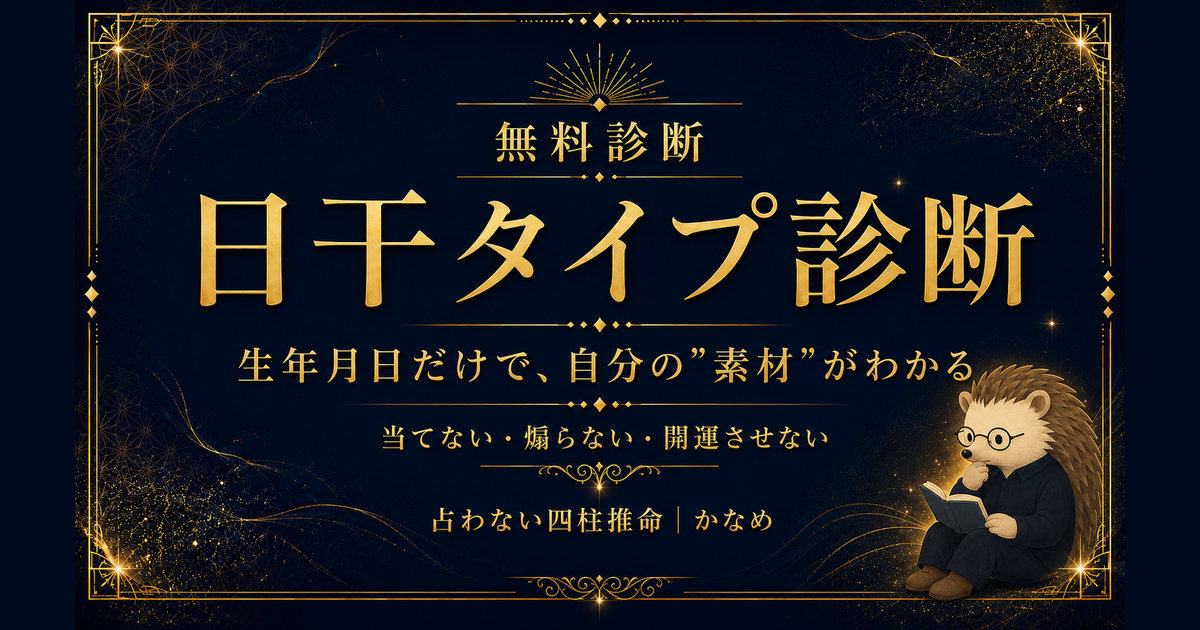
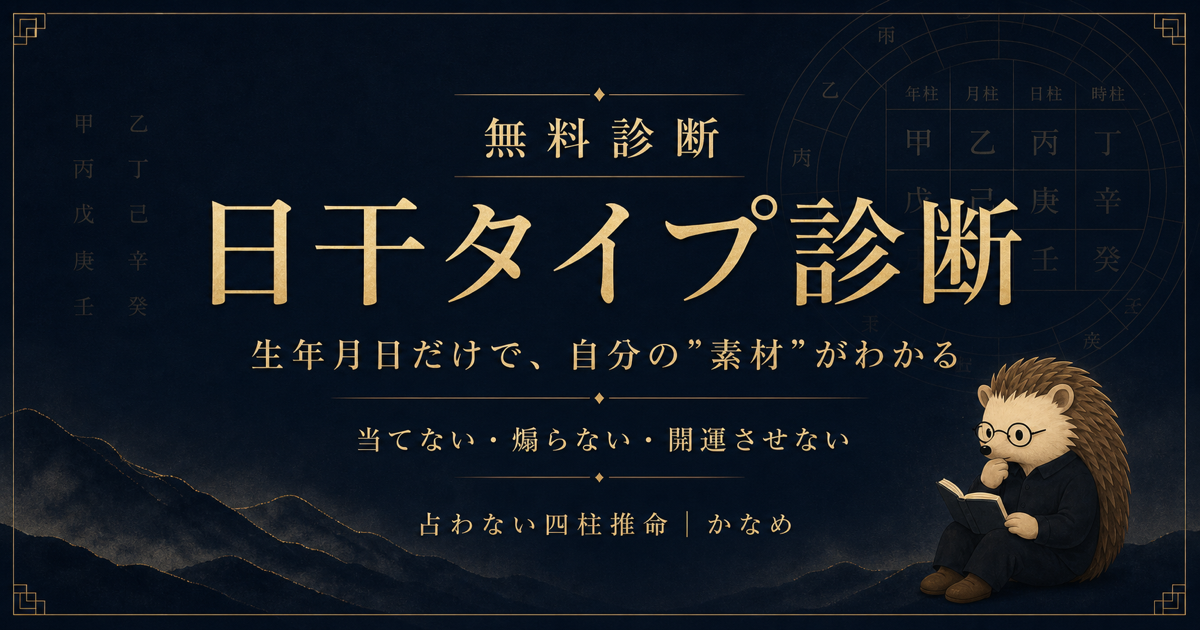
Add files via upload

diff --git a/index.html b/index.html
@@ -145,9 +145,136 @@
   .sign{text-align:center;margin-top:36px;font-family:var(--serif);color:var(--muted);font-size:13px;letter-spacing:.1em}
   .starnote{font-size:12px;color:var(--muted);display:inline-block;margin-top:5px;line-height:1.7}
   .hidden{display:none}
+
+  /* ===== 2026-07-17 visual refresh =====
+     すばるの「背景に世界観／本文は静かなパネル」という骨格だけを借り、
+     かなめは命式盤・金の罫線・墨の山並みで固有化する。色は従来の濃紺×金を維持。 */
+  body{padding:0 18px;position:relative;overflow-x:hidden;
+    background:
+      radial-gradient(44% 32% at 86% 11%,rgba(231,206,142,.16) 0%,rgba(203,167,90,.045) 48%,transparent 74%),
+      radial-gradient(72% 50% at 12% 78%,rgba(76,107,122,.22) 0%,transparent 72%),
+      linear-gradient(180deg,#07131C 0%,#0E1A24 34%,#132533 70%,#1A3140 100%) fixed}
+  body::before{opacity:.07;mix-blend-mode:screen}
+  .kaname-grid{position:fixed;inset:0;z-index:0;pointer-events:none;opacity:.23;
+    background-image:
+      linear-gradient(rgba(203,167,90,.12) 1px,transparent 1px),
+      linear-gradient(90deg,rgba(203,167,90,.12) 1px,transparent 1px);
+    background-size:72px 72px;
+    -webkit-mask-image:linear-gradient(180deg,rgba(0,0,0,.9),rgba(0,0,0,.12) 78%,transparent);
+    mask-image:linear-gradient(180deg,rgba(0,0,0,.9),rgba(0,0,0,.12) 78%,transparent)}
+  .kaname-grid::before,.kaname-grid::after{content:"";position:absolute;inset:0}
+  .kaname-grid::before{background:linear-gradient(112deg,transparent 0 47.8%,rgba(203,167,90,.13) 48%,transparent 48.2% 100%)}
+  .kaname-grid::after{background:linear-gradient(68deg,transparent 0 47.8%,rgba(203,167,90,.09) 48%,transparent 48.2% 100%)}
+  .kaname-disc{position:fixed;right:42px;top:38px;width:286px;height:286px;border-radius:50%;z-index:0;pointer-events:none;
+    border:1px solid rgba(231,206,142,.48);
+    background:
+      repeating-conic-gradient(from -9deg,rgba(231,206,142,.32) 0 .45deg,transparent .45deg 36deg),
+      radial-gradient(circle,transparent 0 31%,rgba(203,167,90,.18) 31.4% 31.8%,transparent 32.2% 56%,rgba(203,167,90,.22) 56.4% 56.8%,transparent 57.2%),
+      radial-gradient(circle at 42% 35%,rgba(244,236,216,.12),rgba(203,167,90,.035) 52%,transparent 72%);
+    box-shadow:0 0 70px 20px rgba(203,167,90,.09),inset 0 0 55px rgba(203,167,90,.05);
+    animation:discBreathe 9s ease-in-out infinite}
+  .kaname-disc::before{content:"命";position:absolute;inset:0;display:grid;place-items:center;
+    font-family:var(--serif);font-size:88px;font-weight:500;color:rgba(231,206,142,.19);
+    text-shadow:0 0 28px rgba(203,167,90,.13)}
+  .kaname-disc::after{content:"甲　乙　丙　丁　戊\A癸　　　　　　　己\A壬　辛　庚";white-space:pre;
+    position:absolute;inset:-18px;display:grid;place-items:center;text-align:center;
+    font-family:var(--serif);font-size:12px;line-height:9.4;letter-spacing:2.8em;color:rgba(231,206,142,.48)}
+  @keyframes discBreathe{0%,100%{opacity:.72;filter:brightness(.92)}50%{opacity:1;filter:brightness(1.08)}}
+  .kaname-mist{position:fixed;left:-8%;right:-8%;bottom:-3vh;height:42vh;z-index:0;pointer-events:none;opacity:.48;
+    background:
+      linear-gradient(153deg,transparent 0 42%,rgba(6,16,23,.8) 42.2% 52%,transparent 52.2%) 0 100%/34% 82% repeat-x,
+      linear-gradient(207deg,transparent 0 44%,rgba(12,29,40,.84) 44.2% 58%,transparent 58.2%) 8% 100%/42% 68% repeat-x,
+      radial-gradient(60% 48% at 20% 100%,rgba(184,169,127,.15),transparent 70%),
+      radial-gradient(54% 44% at 76% 106%,rgba(76,107,122,.36),transparent 72%);
+    filter:blur(5px)}
+  @media(max-width:760px){
+    .kaname-disc{width:168px;height:168px;right:-38px;top:28px}
+    .kaname-disc::before{font-size:52px}.kaname-disc::after{font-size:8px;line-height:8.5;letter-spacing:2em}
+    .kaname-grid{background-size:48px 48px;opacity:.19}
+  }
+
+  .wrap{max-width:680px;padding:104px 0 120px}
+  #intro{min-height:calc(100svh - 160px);display:flex;flex-direction:column;justify-content:center}
+  #intro.hidden{display:none}
+  .en{font-family:var(--serif);font-size:13px;letter-spacing:.42em;color:var(--accent2);margin-bottom:18px;
+    text-shadow:0 2px 12px rgba(0,0,0,.8)}
+  .kicker{font-size:13.5px;letter-spacing:.36em;color:var(--ink);margin-bottom:25px;text-shadow:0 2px 14px rgba(0,0,0,.7)}
+  .kicker::before,.kicker::after{width:52px;background:linear-gradient(90deg,transparent,var(--accent))}
+  .kicker::after{background:linear-gradient(90deg,var(--accent),transparent)}
+  h1.title{font-size:46px;letter-spacing:.16em;color:var(--ink);-webkit-text-fill-color:initial;background:none;
+    text-shadow:0 2px 18px rgba(0,0,0,.8),0 0 38px rgba(203,167,90,.28)}
+  h1.title::after{content:"◇";display:block;font-size:13px;color:var(--accent2);margin-top:24px;letter-spacing:0;
+    text-shadow:0 0 16px rgba(231,206,142,.65)}
+  .lead{color:#D8CDAF;line-height:2.15;text-shadow:0 2px 12px rgba(0,0,0,.8)}
+  .note-min{max-width:560px;margin-top:38px;padding:20px 22px;line-height:1.95;border-radius:6px;
+    color:#D7C9A3;background:rgba(13,27,37,.7);border-color:rgba(203,167,90,.26);
+    backdrop-filter:blur(9px);box-shadow:inset 0 1px 0 rgba(255,255,255,.035)}
+
+  .btn{position:relative;overflow:hidden;border-radius:4px;padding:17px 46px;letter-spacing:.16em;
+    background:rgba(10,23,32,.54);color:var(--ink);border-color:rgba(231,206,142,.55);
+    backdrop-filter:blur(5px);transition:.3s;text-shadow:none}
+  .btn::after{content:"";position:absolute;top:0;left:-120%;width:60%;height:100%;
+    background:linear-gradient(100deg,transparent,rgba(255,255,255,.34),transparent);transform:skewX(-18deg)}
+  .btn:hover::after{animation:goldSheen 1.1s ease}
+  @keyframes goldSheen{to{left:140%}}
+  .btn-primary{background:linear-gradient(180deg,rgba(231,206,142,.98),rgba(203,167,90,.98));
+    border-color:#E7CE8E;color:#20180A;box-shadow:0 12px 34px rgba(0,0,0,.42),0 0 28px rgba(203,167,90,.14)}
+  .btn-primary:hover{background:linear-gradient(180deg,#F0DBA0,#D6B96C);border-color:#F0DBA0;
+    box-shadow:0 16px 40px rgba(0,0,0,.5),0 0 34px rgba(203,167,90,.24)}
+  .btn-ghost{background:rgba(10,23,32,.6);color:var(--ink);border-color:rgba(203,167,90,.36)}
+  .mt40{margin-top:46px}
+
+  .birth-card,.res-card,.cta-main{border-radius:8px;border-color:rgba(203,167,90,.34);
+    background:linear-gradient(180deg,rgba(23,38,49,.91),rgba(8,20,29,.96));
+    backdrop-filter:blur(12px);box-shadow:0 30px 80px rgba(0,0,0,.56),inset 0 1px 0 rgba(255,255,255,.055)}
+  .birth-card{padding:48px 28px}.birth-card .bh{font-size:20px;letter-spacing:.12em}.birth-card .bs{margin-bottom:30px}
+  .selrow label{font-family:var(--serif);font-size:12px;color:var(--accent2);letter-spacing:.24em;margin-bottom:9px}
+  select{min-width:90px;border:0;border-bottom:1px solid rgba(203,167,90,.58);border-radius:0;background:transparent;
+    padding:11px 10px;color:var(--ink)}
+  select:focus{border-bottom-color:var(--accent2)}select option{background:#13212B;color:var(--ink)}
+
+  .res-card{padding:52px 36px;text-align:left}
+  .res-card::before{inset:9px;border-radius:4px;background:radial-gradient(64% 36% at 50% -4%,rgba(231,206,142,.12),transparent 72%)}
+  .res-watermark{font-size:250px;color:rgba(203,167,90,.055);text-shadow:0 0 45px rgba(203,167,90,.05)}
+  .res-card>.en,.res-system,.res-name,.res-tag,.res-kan,.res-axes{text-align:center}
+  .res-system{font-size:13px;letter-spacing:.24em;color:var(--accent2);margin-top:8px}
+  .res-name{font-size:40px;margin-top:10px;text-shadow:0 2px 16px rgba(0,0,0,.8),0 0 28px rgba(203,167,90,.22)}
+  .res-tag{display:table;margin:16px auto 0;border-radius:999px;background:rgba(203,167,90,.11)}
+  .res-kan{margin-top:18px}.res-axes{font-size:13px;letter-spacing:.09em;color:#D4C49B}
+  .sec{margin-top:34px;padding-top:28px;border-color:rgba(203,167,90,.24)}
+  .sec h3{font-weight:600;font-size:17px;color:var(--ink);letter-spacing:.1em;margin-bottom:14px}
+  .sec h3 .dot{width:auto;height:auto;background:none;font-family:var(--serif);font-size:15px;color:var(--accent2);
+    letter-spacing:.16em;margin-right:7px}
+  .sec p{font-size:15.5px;line-height:2.1;color:#F4ECD8}
+  .res-step{margin-top:36px;padding:26px;border-radius:5px;background:linear-gradient(180deg,rgba(67,67,50,.6),rgba(37,42,37,.74));
+    border-color:rgba(231,206,142,.48);box-shadow:inset 0 0 32px rgba(203,167,90,.06),0 12px 32px rgba(0,0,0,.35)}
+  .res-step .sh{font-weight:600;font-size:16px;letter-spacing:.16em}.res-step .sh::before{content:"◇"}
+  .res-step p:not(.sh){font-size:15.5px;line-height:2.1}
+
+  .cta{margin-top:48px}.cta-bridge{color:var(--ink);letter-spacing:.24em}
+  .cta-bridge::after{width:1px;height:40px;margin:16px auto 24px;background:linear-gradient(180deg,var(--accent2),transparent)}
+  .cta-main{padding:42px 30px}.cta-eyebrow{letter-spacing:.16em;border-color:rgba(203,167,90,.42)}
+  .cta-main .h{font-size:21px;line-height:1.8}.cta-main .p{font-size:15px;line-height:2.05;color:#D8CDAF}
+  .cta-teaser{font-size:16px;line-height:2;border-radius:0 4px 4px 0;
+    background:linear-gradient(90deg,rgba(203,167,90,.18),rgba(203,167,90,.035))}
+  .cta-list li{font-size:14.5px;line-height:1.9}.cta-list li::before{content:"◇";font-size:10px;top:2px}
+  .disc{font-size:13px;line-height:2;border:1px solid rgba(203,167,90,.22);border-radius:6px;padding:26px 22px;
+    background:rgba(7,17,26,.82);backdrop-filter:blur(7px)}
+  .sign{color:#D4C49B;letter-spacing:.3em;text-shadow:0 2px 14px rgba(0,0,0,.8)}
+  @media(max-width:560px){
+    .wrap{padding:82px 0 96px}#intro{min-height:calc(100svh - 120px)}h1.title{font-size:30px;letter-spacing:.1em}
+    .lead br{display:none}.note-min br{display:none}.btn{width:100%;padding:16px 22px}
+    .birth-card{padding:38px 18px}.selrow{gap:6px}.selrow .field{flex:1;min-width:76px}select{width:100%;min-width:0}
+    .res-card{padding:38px 20px}.res-name{font-size:29px}.res-watermark{font-size:160px}
+    .cta-main{padding:34px 20px}.cta-main .h{font-size:19px}.cta-main .p br{display:none}
+  }
+  @media(prefers-reduced-motion:reduce){.kaname-disc{animation:none}.btn:hover::after{animation:none}}
 </style>
 </head>
 <body>
+<div class="kaname-grid" aria-hidden="true"></div>
+<div class="kaname-disc" aria-hidden="true"></div>
+<div class="kaname-mist" aria-hidden="true"></div>
 <div class="wrap">
 
   <!-- イントロ -->
@@ -158,7 +285,7 @@
     <p class="lead">生年月日を入れると、自分が「どんな素材でできているか」に加えて、<br>才能の「出方」と「勢い」までわかります。<br>
       当てない・煽らない・開運させない。性格じゃなく、構造で読む診断です。</p>
     <div class="center mt40">
-      <button class="btn btn-primary" onclick="toBirth()">診断をはじめる</button>
+      <button type="button" class="btn btn-primary" onclick="toBirth()">命式をひらく　›</button>
     </div>
     <p class="note-min">生まれた時間は聞きません。生年月日だけで確定する「日干（自分の核）」を読みます。<br>
       これは運勢占いではなく、自分の傾向を知るための「ものの見方のひとつ」です。</p>
@@ -175,7 +302,7 @@
         <div class="field"><label>日</label><select id="d"></select></div>
       </div>
       <div class="center mt28">
-        <button class="btn btn-primary" onclick="judge()">自分のタイプを見る</button>
+        <button type="button" class="btn btn-primary" onclick="judge()">自分の構造を読む　›</button>
       </div>
       <p class="err" id="err">生年月日を選んでください。</p>
     </div>
@@ -192,13 +319,13 @@
       <p class="res-kan serif" id="rKan"></p>
       <p class="res-axes" id="rAxes"></p>
 
-      <div class="sec"><h3><span class="dot"></span>あなたの素材</h3><p id="rTale"></p></div>
-      <div class="sec"><h3><span class="dot"></span>あなたの才能</h3><p id="rTalent"></p></div>
-      <div class="sec"><h3><span class="dot"></span>消耗するとき</h3><p id="rTired"></p></div>
-      <div class="sec"><h3><span class="dot"></span>扱い方・立て直し</h3><p id="rRecover"></p></div>
-      <div class="sec"><h3><span class="dot"></span>活きる場所</h3><p id="rEnv"></p></div>
-      <div class="sec"><h3><span class="dot"></span>才能の「出方」（通変星）</h3><p id="rDir"></p></div>
-      <div class="sec"><h3><span class="dot"></span>勢い・ペース配分（十二運）</h3><p id="rMom"></p></div>
+      <div class="sec"><h3><span class="dot">01</span>自分の素材</h3><p id="rTale"></p></div>
+      <div class="sec"><h3><span class="dot">02</span>自分の才能</h3><p id="rTalent"></p></div>
+      <div class="sec"><h3><span class="dot">03</span>消耗するとき</h3><p id="rTired"></p></div>
+      <div class="sec"><h3><span class="dot">04</span>扱い方・立て直し</h3><p id="rRecover"></p></div>
+      <div class="sec"><h3><span class="dot">05</span>活きる場所</h3><p id="rEnv"></p></div>
+      <div class="sec"><h3><span class="dot">06</span>才能の「出方」（通変星）</h3><p id="rDir"></p></div>
+      <div class="sec"><h3><span class="dot">07</span>勢い・ペース配分（十二運）</h3><p id="rMom"></p></div>
       <div class="res-step"><p class="sh serif">今日、踏み出せる一歩</p><p id="rStep"></p></div>
     </div>
 
@@ -223,8 +350,8 @@
     </div>
 
     <div class="share-row">
-      <button class="btn btn-ghost" onclick="saveImage()">結果を画像で保存</button>
-      <button class="btn btn-ghost" onclick="restart()">別の生年月日で調べる</button>
+      <button type="button" class="btn btn-ghost" onclick="saveImage()">結果を画像で保存</button>
+      <button type="button" class="btn btn-ghost" onclick="restart()">別の生年月日で調べる</button>
     </div>
 
     <p class="disc">この診断は、生年月日から「日干（自分の核）」を構造的に算出するものです。<br>